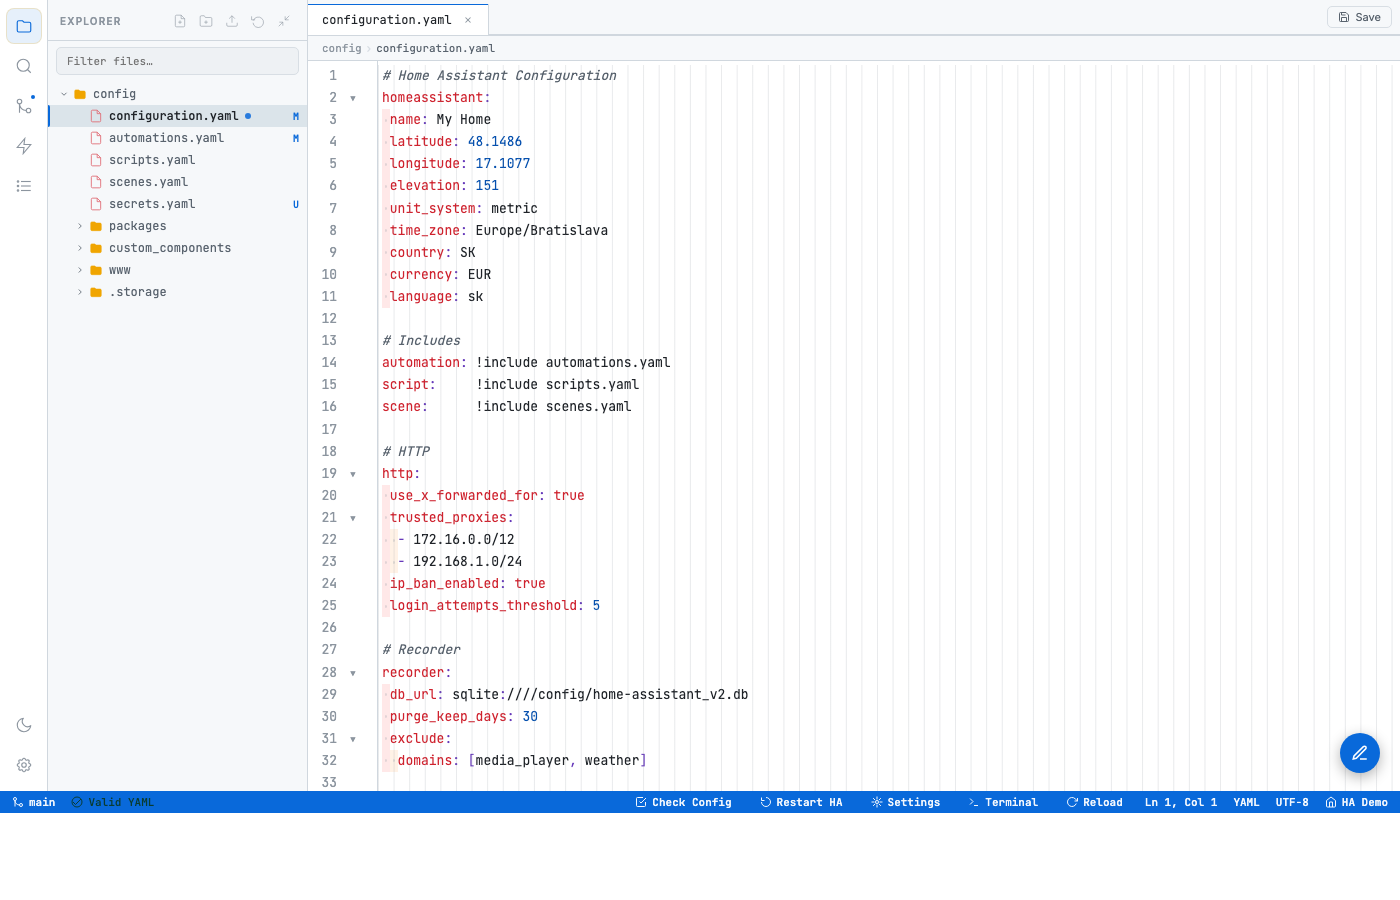
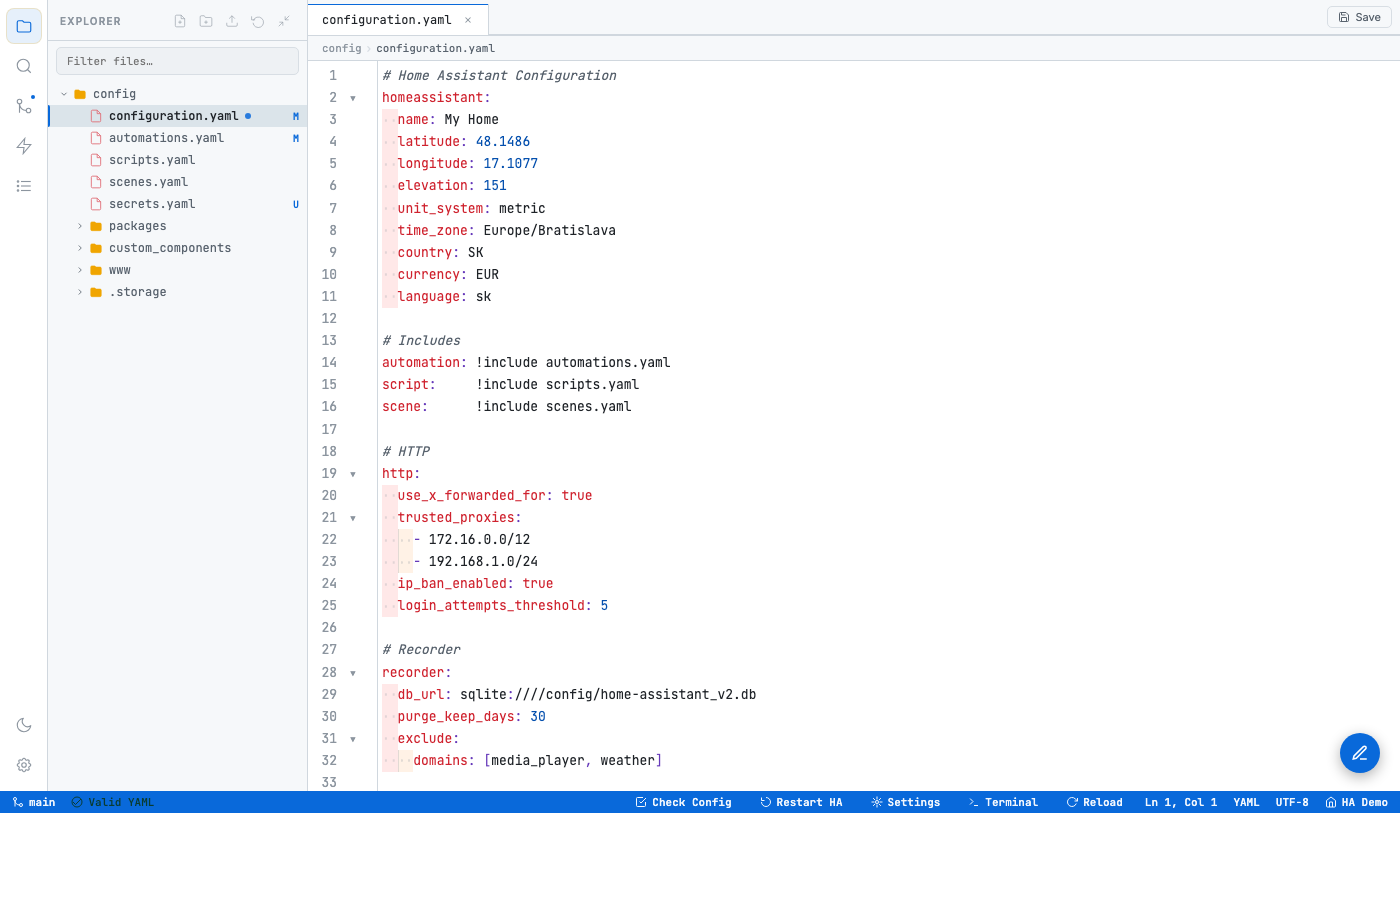
1.9.2: indent guides in indent only, rainbow brackets fixed, File Editor theme, terminal diag
- Indent guides: dropped the CSS linear-gradient that painted lines
  across every whole line. Now tagged by a _guidesOverlay that only
  fires inside leading whitespace; CSS renders a 1px box-shadow on
  the .cm-ig-line spans. Rainbow style stacks this overlay on top
  of the color overlay.
- Rainbow brackets: removed the .bp-on wrapper class gate so colours
  apply as soon as the overlay tags brackets.
- Marker spans (ir/ib/ig): dropped width:1ch — CM merges consecutive
  same-class tokens into one span, so the fixed width was clipping
  multi-char spans to a single character and the level visuals
  looked off.
- New theme file-editor (light): Ace-textmate-style palette matching
  the default HA File Editor add-on. Cream bg, navy keys and
  identifiers, dark-red strings/numbers/literals, italic gray
  comments.
- Terminal: pre-connect /api/terminal/available check with surfaced
  error reason; WS URL and close code printed in the panel. Spawns
  bash if available (Alpine image now installs it).
- requirements.txt: dropped unused websockets dep.

diff --git a/file_editor_pro/index.html b/file_editor_pro/index.html
@@ -50,6 +50,24 @@
       --status-text:#ffffff;
     }
 
+    /* ── file-editor (classic HA File Editor palette) ──
+       Recreates the Ace textmate-style look: cream bg, navy keys
+       and identifiers, dark-red strings/numbers, gray italic
+       comments. Matches the standard HA File Editor add-on. */
+    [data-theme="file-editor"] {
+      --bg-darkest:#fdfdf5; --bg-dark:#f6f4e8; --bg-mid:#efeddf;
+      --bg-light:#fdfdf5; --bg-hover:#e8e6d8; --bg-active:#dcd9c9;
+      --text-primary:#1f2328; --text-secondary:#4a5057; --text-muted:#8b8f95;
+      --accent:#1e5b8a; --accent-dim:rgba(30,91,138,.10);
+      --accent-blue:#1e5b8a; --accent-green:#297a3a; --accent-red:#a82a2a;
+      --border:#dedcca; --border-light:#d4d2c0;
+      --selection:rgba(30,91,138,.18);
+      --syn-comment:#8b8f95; --syn-keyword:#a82a2a; --syn-string:#a82a2a;
+      --syn-number:#a82a2a; --syn-def:#1e5b8a; --syn-tag:#1e5b8a;
+      --syn-builtin:#a82a2a; --syn-atom:#a82a2a; --syn-meta:#1e5b8a;
+      --status-text:#ffffff;
+    }
+
     /* ── ha-light (clean white + amber) ── */
     [data-theme="ha-light"] {
       --bg-darkest:#ffffff; --bg-dark:#f6f8fa; --bg-mid:#eef1f4;
@@ -525,26 +543,29 @@
        Using background-color (not the background shorthand) so the
        .cm-ws-space background-image layer still shows through. */
 
-    /* ── BRACKET PAIR COLORIZATION ── (opt-in via PREFS.bracketColors) */
-    .cm-s-ha.bp-on .cm-bp-0{color:#e06c75 !important}
-    .cm-s-ha.bp-on .cm-bp-1{color:#d19a66 !important}
-    .cm-s-ha.bp-on .cm-bp-2{color:#e5c07b !important}
-    .cm-s-ha.bp-on .cm-bp-3{color:#98c379 !important}
-    .cm-s-ha.bp-on .cm-bp-4{color:#61afef !important}
-    .cm-s-ha.bp-on .cm-bp-5{color:#c678dd !important}
+    /* ── BRACKET PAIR COLORIZATION ── */
+    .cm-s-ha .cm-bp-0{color:#e06c75 !important}
+    .cm-s-ha .cm-bp-1{color:#d19a66 !important}
+    .cm-s-ha .cm-bp-2{color:#e5c07b !important}
+    .cm-s-ha .cm-bp-3{color:#98c379 !important}
+    .cm-s-ha .cm-bp-4{color:#61afef !important}
+    .cm-s-ha .cm-bp-5{color:#c678dd !important}
 
-    /* Marker spans render as inline-block with exactly the editor
-       line-height so the coloured background paints edge-to-edge
-       vertically and row-to-row — no white sliver between lines.
-       vertical-align:top kills the default baseline gap; opacity
-       from --indent-opacity scales the whole rendered layer so the
-       Settings transparency slider works in every browser without
-       relying on calc() inside rgba(). */
-    .cm-s-ha [class*="cm-ir-"],
-    .cm-s-ha [class*="cm-ib-"],
-    .cm-s-ha [class*="cm-ig-"]{
+    /* Marker spans (rainbow/bars/gradient/guides). Let them take
+       their NATURAL content width — CodeMirror merges adjacent
+       same-class tokens into one span, so a single span may wrap
+       several space characters. A fixed width:1ch clipped merged
+       spans to a single char. line-height:inherit + vertical-align:top
+       + zero margin/padding keep rows flush so backgrounds connect. */
+    .cm-s-ha .cm-ir-0, .cm-s-ha .cm-ir-1, .cm-s-ha .cm-ir-2,
+    .cm-s-ha .cm-ir-3, .cm-s-ha .cm-ir-4, .cm-s-ha .cm-ir-5,
+    .cm-s-ha .cm-ib-0, .cm-s-ha .cm-ib-1, .cm-s-ha .cm-ib-2,
+    .cm-s-ha .cm-ib-3, .cm-s-ha .cm-ib-4, .cm-s-ha .cm-ib-5,
+    .cm-s-ha .cm-ig-0, .cm-s-ha .cm-ig-1, .cm-s-ha .cm-ig-2,
+    .cm-s-ha .cm-ig-3, .cm-s-ha .cm-ig-4, .cm-s-ha .cm-ig-5,
+    .cm-s-ha .cm-ig-6, .cm-s-ha .cm-ig-7, .cm-s-ha .cm-ig-8,
+    .cm-s-ha .cm-ig-line{
       display: inline-block;
-      width: 1ch;
       line-height: inherit;
       vertical-align: top;
       margin: 0;
@@ -579,19 +600,9 @@
     .cm-s-ha .cm-ig-7{background-color:color-mix(in srgb, var(--accent) 33%, transparent)}
     .cm-s-ha .cm-ig-8{background-color:color-mix(in srgb, var(--accent) 37%, transparent)}
 
-    /* Indent guides (CSS-gradient background) — alpha scales with
-       --indent-opacity so the single slider governs this style too. */
-    .CodeMirror.indent-guides .CodeMirror-line{
-      position: relative;
-    }
-    .CodeMirror.indent-guides .CodeMirror-line::before{
-      content:''; position:absolute; inset:0; pointer-events:none;
-      background-image: linear-gradient(to right,
-        color-mix(in srgb, var(--text-muted) calc(20% * var(--indent-opacity, 1)), transparent) 1px,
-        transparent 1px);
-      background-size: var(--indent-ch, 2ch) 100%;
-      background-repeat: repeat-x;
-      background-position-x: calc(-1 * var(--indent-ch, 2ch));
+    /* ── INDENT GUIDES ── (overlay-tagged, ONLY in the indent area) */
+    .cm-s-ha .cm-ig-line{
+      box-shadow: inset 1px 0 0 color-mix(in srgb, var(--text-muted) 25%, transparent);
     }
 
     /* ── HINT POPUP (CodeMirror show-hint) ── */
@@ -2604,6 +2615,7 @@ async function haReload(domain) {
 const PREFS_KEY = 'fep-prefs';
 const THEMES = [
   { id: 'github-light',     name: 'GitHub Light',     kind: 'light' },
+  { id: 'file-editor',      name: 'File Editor (classic)', kind: 'light' },
   { id: 'ha-light',         name: 'HA Light',         kind: 'light' },
   { id: 'solarized-light',  name: 'Solarized Light',  kind: 'light' },
   { id: 'ha-cream',         name: 'HA Cream',         kind: 'light' },
@@ -2837,7 +2849,8 @@ function applyBracketColors() {
   const wrap = editor.getWrapperElement();
   if (PREFS.bracketColors && !_bpActive) { editor.addOverlay(_bpOverlay); _bpActive = true; }
   else if (!PREFS.bracketColors && _bpActive) { editor.removeOverlay(_bpOverlay); _bpActive = false; }
-  wrap.classList.toggle('bp-on', !!PREFS.bracketColors);
+  // No longer gate on a wrapper class — the CSS rules apply as soon
+  // as the overlay starts adding cm-bp-N classes to brackets.
 }
 function toggleBracketColors() {
   PREFS.bracketColors = !PREFS.bracketColors;
@@ -3154,6 +3167,27 @@ const _ibOverlay = {
   }
 };
 
+// Guides: one vertical line at each tab-stop, INSIDE the indent area
+// only (no line painted across blank lines or beyond the last indent
+// character, unlike the old CSS-gradient approach).
+const _guidesOverlay = {
+  token(stream) {
+    const m = stream.string.match(/^[ \t]*/);
+    const leadingLen = m ? m[0].length : 0;
+    if (stream.pos < leadingLen) {
+      const startCol = stream.pos;
+      stream.next();
+      const tabSize = Math.max(1, PREFS.tabSize || 2);
+      if (startCol > 0 && (startCol % tabSize) === 0) {
+        return 'ig-line';
+      }
+      return null;
+    }
+    stream.skipToEnd();
+    return null;
+  }
+};
+
 // Gradient: every leading-whitespace space gets cm-ig-N with N capped
 // at 8 — the deeper the level, the stronger the tint.
 const _igOverlay = {
@@ -3172,33 +3206,32 @@ const _igOverlay = {
   }
 };
 
-let _currentStyleOverlay = null;   // whichever overlay is active
+// Two overlays can be active at once for rainbow (colors + guides).
+let _currentStyleOverlay = null;
+let _currentGuidesOverlay = null;
 
 function applyIndentStyle() {
   if (!editor) return;
-  // Remove any currently-active style overlay
-  if (_currentStyleOverlay) {
-    editor.removeOverlay(_currentStyleOverlay);
-    _currentStyleOverlay = null;
-  }
-  // Remove guides-class (CSS mechanism, not an overlay)
-  const wrap = editor.getWrapperElement();
-  wrap.classList.remove('indent-guides');
+  if (_currentStyleOverlay)  { editor.removeOverlay(_currentStyleOverlay);  _currentStyleOverlay = null; }
+  if (_currentGuidesOverlay) { editor.removeOverlay(_currentGuidesOverlay); _currentGuidesOverlay = null; }
 
   switch (PREFS.indentStyle) {
     case 'guides':
-      wrap.classList.add('indent-guides');
+      editor.addOverlay(_guidesOverlay);
+      _currentGuidesOverlay = _guidesOverlay;
       break;
     case 'rainbow':
-      // Rainbow also shows the faint grey guide lines (like VS Code's
-      // Indent Rainbow extension) so users can see both the tint and
-      // the crisp level boundary.
-      wrap.classList.add('indent-guides');
-      _currentStyleOverlay = _irOverlay;
-      editor.addOverlay(_irOverlay);
+      // Rainbow + grey tab-stop lines (like the VS Code Indent Rainbow
+      // extension).
+      editor.addOverlay(_irOverlay);    _currentStyleOverlay  = _irOverlay;
+      editor.addOverlay(_guidesOverlay);_currentGuidesOverlay = _guidesOverlay;
       break;
-    case 'bars':     _currentStyleOverlay = _ibOverlay; editor.addOverlay(_ibOverlay); break;
-    case 'gradient': _currentStyleOverlay = _igOverlay; editor.addOverlay(_igOverlay); break;
+    case 'bars':
+      editor.addOverlay(_ibOverlay);    _currentStyleOverlay = _ibOverlay;
+      break;
+    case 'gradient':
+      editor.addOverlay(_igOverlay);    _currentStyleOverlay = _igOverlay;
+      break;
     case 'none':
     default: /* nothing */ break;
   }
@@ -3348,15 +3381,30 @@ function setupTerminal() {
   window.addEventListener('resize', () => { if (_termFit) _termFit.fit(); });
 }
 
-function openTerminalWS() {
+async function openTerminalWS() {
+  // Check backend terminal availability first so we can show a clear
+  // error instead of a silent disconnection.
+  try {
+    const r = await fetch(API.url('/api/terminal/available'));
+    const info = await r.json();
+    if (!info.available) {
+      _term.writeln(`\x1b[31mTerminal unavailable: ${info.error || 'PTY not installed in the image.'}\x1b[0m`);
+      return;
+    }
+  } catch (e) {
+    _term.writeln('\x1b[31mCannot reach /api/terminal/available: ' + e.message + '\x1b[0m');
+    _term.writeln('\x1b[90mMake sure the add-on is running. If this is the standalone HTML file, the terminal requires the FastAPI backend.\x1b[0m');
+    return;
+  }
+
   const proto = location.protocol === 'https:' ? 'wss:' : 'ws:';
-  // Build a URL that respects HA ingress path prefix.
   const base = API.base.replace(/\/$/, '');
   const url = `${proto}//${location.host}${base}/api/terminal`;
+  _term.writeln(`\x1b[90mConnecting ${url}…\x1b[0m`);
   try {
     _termWs = new WebSocket(url);
   } catch (e) {
-    _term.writeln('\x1b[31mWebSocket failed: ' + e.message + '\x1b[0m');
+    _term.writeln('\x1b[31mWebSocket ctor failed: ' + e.message + '\x1b[0m');
     return;
   }
   _termWs.onopen = () => {
@@ -3367,10 +3415,15 @@ function openTerminalWS() {
     try {
       const msg = JSON.parse(ev.data);
       if (msg.type === 'output') _term.write(msg.data);
-    } catch {}
+    } catch (e) {
+      _term.writeln('\r\n\x1b[31m[bad frame: ' + e.message + ']\x1b[0m');
+    }
   };
-  _termWs.onclose = () => { _term.writeln('\r\n\x1b[90m[shell exited]\x1b[0m'); _termWs = null; };
-  _termWs.onerror = () => _term.writeln('\r\n\x1b[31m[websocket error]\x1b[0m');
+  _termWs.onclose = (e) => {
+    _term.writeln(`\r\n\x1b[90m[connection closed, code ${e.code}${e.reason ? ': ' + e.reason : ''}]\x1b[0m`);
+    _termWs = null;
+  };
+  _termWs.onerror = () => _term.writeln('\r\n\x1b[31m[websocket error — see browser devtools Network tab]\x1b[0m');
 }
 
 function clearTerminal() { if (_term) _term.clear(); }

diff --git a/file_editor_pro/server.py b/file_editor_pro/server.py
@@ -15,10 +15,11 @@ from pydantic import BaseModel
 
 try:
     import ptyprocess  # type: ignore
-    import fcntl, termios
     _HAS_PTY = True
-except ImportError:
+    _PTY_ERROR = ""
+except ImportError as _pty_err:
     _HAS_PTY = False
+    _PTY_ERROR = str(_pty_err)
 
 APP_DIR = Path(__file__).parent
 INDEX_HTML = APP_DIR / "index.html"
@@ -587,27 +588,41 @@ async def ha_reload(body: ReloadBody):
 @app.get("/api/terminal/available")
 async def terminal_available():
     """Tell the frontend whether the terminal feature is usable."""
-    return {"available": _HAS_PTY}
+    return {
+        "available": _HAS_PTY,
+        "error": _PTY_ERROR,
+        "shell": os.environ.get("SHELL", "/bin/sh"),
+    }
 
 
 @app.websocket("/api/terminal")
 async def terminal_ws(ws: WebSocket):
-    """Bidirectional PTY bridge. The client sends:
-      {"type":"input", "data":"..."}   — user keystrokes
-      {"type":"resize","cols":N,"rows":M} — terminal resize
-    The server pushes:
-      {"type":"output","data":"..."}   — PTY stdout/stderr
-    """
+    """Bidirectional PTY bridge."""
     await ws.accept()
     if not _HAS_PTY:
-        await ws.send_json({"type": "output", "data": "PTY support is not available in this image.\r\n"})
+        await ws.send_json({"type": "output",
+            "data": f"PTY support unavailable: {_PTY_ERROR}\r\n"})
         await ws.close()
         return
 
     shell = os.environ.get("SHELL", "/bin/sh")
-    proc = ptyprocess.PtyProcessUnicode.spawn(
-        [shell], cwd=str(CONFIG_ROOT), dimensions=(24, 80)
-    )
+    # Prefer bash if available — Alpine ships /bin/ash but /bin/bash
+    # is installed in our image. bashio loads there too.
+    for candidate in ("/bin/bash", shell, "/bin/ash", "/bin/sh"):
+        if os.path.exists(candidate):
+            shell = candidate
+            break
+    try:
+        proc = ptyprocess.PtyProcessUnicode.spawn(
+            [shell, "-l"], cwd=str(CONFIG_ROOT), dimensions=(24, 80),
+            env={**os.environ, "TERM": "xterm-256color"},
+        )
+    except Exception as e:
+        await ws.send_json({"type": "output",
+            "data": f"Failed to spawn shell ({shell}): {e}\r\n"})
+        await ws.close()
+        return
+    await ws.send_json({"type": "output", "data": f"\x1b[90m[{shell}] \x1b[0m"})
 
     loop = asyncio.get_event_loop()
 

diff --git a/file_editor_pro/CHANGELOG.md b/file_editor_pro/CHANGELOG.md
@@ -1,5 +1,14 @@
 # Changelog
 
+## 1.9.2 — Indent guides in indent area only, rainbow brackets, File Editor theme
+
+- **Indent guides no longer paint across whole lines.** Old CSS used a line-width background-gradient that drew vertical lines across every row from top to bottom. Now guides come from an overlay (`_guidesOverlay`) that tags each tab-stop position inside the actual leading whitespace with `cm-ig-line`. CSS renders a 1 px `box-shadow` on those spans only — zero paint on blank lines or the content area.
+- **Rainbow style** now combines the indent colors with the new in-indent guide lines (previously it added the whole-line guides class).
+- **Rainbow brackets fixed**. The `.cm-s-ha.bp-on .cm-bp-N` CSS gate was too brittle. Removed the `.bp-on` class; color rules now apply as soon as the overlay starts tagging brackets with `cm-bp-N` — and the overlay is added/removed based on `PREFS.bracketColors`.
+- **Rainbow/gradient/bars indent levels**: removed the `width: 1ch` clip on marker spans. CodeMirror merges consecutive same-class tokens into one span, so a single `ir-0` span may cover 2+ spaces. The old rule was shrinking it to one character and the visible level looked wrong.
+- **New theme: "File Editor (classic)"**. Ace-textmate-style palette matching the default HA File Editor add-on — cream bg, navy keys/identifiers, dark-red strings/numbers, italic gray comments. Pick it under Settings → Theme.
+- **Terminal diagnostics**: pre-connect health check against `/api/terminal/available` so failures show an actionable error instead of hanging; logs the WS URL and close codes. `bash` added to the add-on image so the PTY prefers it over `/bin/sh`.
+
 ## 1.9.1 — Bug sweep: icons, filter, opacity, indent switch, rainbow gaps
 
 - **Folder icons** now render **filled solid amber** so directories are instantly distinct from (outlined) file icons. YAML files recolored from amber → red/pink to avoid collision with the folder color.
